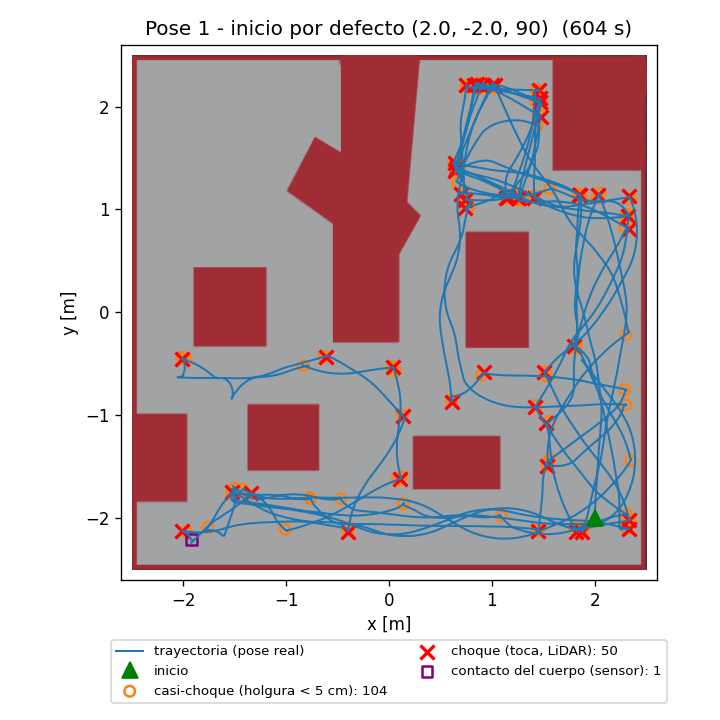
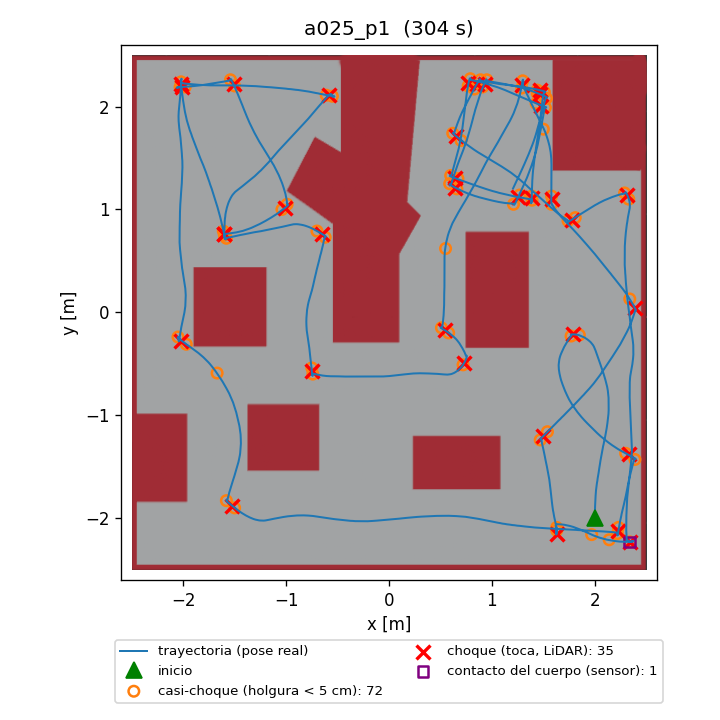
docs: update 5min rwander trajectories and sync text refinements from Google Docs

diff --git a/kapituluak/02_oztopoak.tex b/kapituluak/02_oztopoak.tex
@@ -1,6 +1,6 @@
 \section{LiDAR sektoreak eta diseinuaren arrazoiak}\label{sec:oz-sektoreak}
 
-Enuntziatuak LiDARraren informazioa oztopoak ekiditeko nola erabili dugun azaltzea eskatzen du. Gure helburua robotak oztopoak jo gabe eta modu leunean nabigatzea da. Horretarako portaera erreaktibo garbia erabiltzen dugu: ez dugu maparik eraikitzen eta ez dugu bisitatutako lekuen memoriarik gordetzen; uneko distantziei soilik erantzuten diegu.
+Enuntziatuak LiDARraren informazioa oztopoak ekiditeko nola erabili dugun azaltzea eskatzen du. Gure helburua robotak oztopoak jo gabe eta modu leunean nabigatzea da. Horretarako erabili dugun portaera honakoa izan da: ez dugu maparik eraikitzen eta ez dugu bisitatutako lekuen memoriarik gordetzen; uneko distantziei soilik erantzuten diegu.
 
 Norabide guztiak robotaren erreferentzia-sistemaren arabera definitzen dira: $0^\circ$ aurrera da; $+90^\circ$ ezkerrera; $-90^\circ$ eskuinera; eta $\pm180^\circ$ atzera. \texttt{rwander.py}\ nodoak neurketak berrantolatzen ditu, \texttt{\_scan\_mid}\ indizea aurrealdea izan dadin eta zerrendaren bi muturrak atzealdearen inguruan geratu daitezen. 360 izpien artean lau sektore nagusi bereizten ditugu:
 \begin{itemize}
@@ -74,32 +74,32 @@ else:
 
 \section{Esplorazioaren mugak eta gehitutako hobekuntzak}\label{sec:oz-esplorazioa}
 
-Robot erreaktiboak ez daki aurretik non ibili den. Horregatik, U formako zokoetan edo eremu irekietan bukleak errepikatzeko arriskua dago. Portaera aberasteko bi hobekuntza gehitu ditugu:
+Robot erreaktiboak ez daki aurretik non ibili den. Horregatik, U formako eremuetan bukleak errepikatzeko arriskua dago. Portaera aberasteko bi hobekuntza gehitu ditugu:
 \begin{itemize}
   \item \textbf{Noraez leuna (deriba):} Bidea libre dagoenean, aurreko biraketaren \%90 mantentzen dugu eta ausazko balio txiki bat gehitzen diogu:
   \begin{equation}
     \text{deriba} = 0{,}9 \cdot \text{deriba} + \mathcal{U}(-0{,}1,\, 0{,}1)
   \end{equation}
-  Honi esker mugimendua leuna da, ez du zigi-zaga zakarrik egiten eta ibilbidea etengabe aldatzen da.
-  \item \textbf{Alboko irekiguneetara biratzea ($90^\circ$-ko izpia):} Goiko ezkerreko eremu isolatura pasabide estu batzuen bidez ($0{,}57$~m eta $0{,}66$~m) bakarrik sartzen da. Aurretik pasata ere, robotak aurrera jarraitzeko joera zuen. Hori konpontzeko, alboko $90^\circ$-ko izpiak $1{,}50$~m baino gehiago neurtzen duenean eta alboko sektorea $0{,}90$~m baino txikiagoa denean (horma batean ate bat dagoenean), \%3ko probabilitatearekin $\text{deriba} = \pm1{,}2$~rad/s ezartzen da irekigunera burua sartzeko.
+  Honi esker mugimendua leuna da eta ibilbidea etengabe aldaketa txikiak jasaten ditu.
+  \item \textbf{Alboko irekiguneetara biratzea ($90^\circ$-ko izpia):} Pasabide estuen bidez bereizitako eremu isolatuetan sartzea errazteko, robotak alboko izpiekin irekigune bat detektatzen duenean ($90^\circ$-ko izpiak $> 1{,}50$~m eta alboko sektoreak $< 3 \times \text{atalasea}$), \%3ko probabilitatearekin $\text{deriba} = \pm1{,}2$~rad/s ezartzen da irekigunera bideratzeko eta ingurunea hobeto esploratzeko.
 \end{itemize}
 
 \section{Proben emaitzak eta ikasitakoa}\label{sec:oz-emaitzak}
 
-Enuntziatuak talkarik gabe zenbat denbora iraun dezakeen eta ingurune osora mugitzen den aztertzea eskatzen du. Gazebon 10 minutuko hiru proba nagusi burutu ditugu (baita 5 eta 7 minutuko beste sei proba ere, eranskinean jasoak), \texttt{/gz\_pose}\ bidez benetako ibilbidea gordez. Emaitza kuantitatiboak \ref{tab:rwander-10min}.~taulan eta ibilbideak \ref{fig:ibilbideak}.~irudian laburbiltzen dira.
+Enuntziatuak talkarik gabe zenbat denbora iraun dezakeen eta ingurune osora mugitzen den aztertzea eskatzen du. Gazebon 5 minutuko hiru proba berri burutu ditugu (304~s bakoitza, \texttt{atalasea} $= 0{,}25$~m-rekin), \texttt{/gz\_pose}\ bidez benetako ibilbidea gordez. Emaitza kuantitatiboak \ref{tab:rwander-5min}.~taulan eta ibilbideak \ref{fig:ibilbideak}.~irudian laburbiltzen dira.
 
 \begin{table}[htbp]
   \centering\small
   \begin{tabularx}{\textwidth}{@{}Xccccc@{}}
     \toprule
-    \textbf{Hasierako posizioa} $(x; y; \theta)$ & \textbf{1. kontaktua} & \textbf{1. holgura $<0{,}5$~cm} & \textbf{Alertak $<1{,}5$~cm} & \textbf{Kolpeak} & \textbf{Casi-choques} \\
+    \textbf{Hasierako posizioa} $(x; y; \theta)$ & \textbf{Ibilbidea} & \textbf{Gelaxkak} & \textbf{Goiko ezkerra} & \textbf{U-eremua} & \textbf{Kolpeak (Gazebo)} \\
     \midrule
-    1. Ohikoa: $(2{,}00; -2{,}00; 90^\circ)$ & 151,4 s & 130,6 s & 50 & 1 & 104 \\
-    2. Beheko ezkerra: $(-1{,}00; -2{,}10; 0^\circ)$ & 321,9 s & 93,0 s & 52 & 4 & 96 \\
-    3. Barrutik: $(-1{,}60; 1{,}80; -90^\circ)$ & 495,6 s & 221,7 s & 50 & 1 & 92 \\
+    1. Ohikoa: $(2{,}00; -2{,}00; 90^\circ)$ & 55,6 m & 162 & 39 gelaxka (58.~s) & \%32 & 1 \\
+    2. Beheko ezkerra: $(-1{,}00; -2{,}10; 0^\circ)$ & 54,4 m & 117 & 0 gelaxka & \%37 & 1 \\
+    3. Barrutik: $(-1{,}60; 1{,}80; -90^\circ)$ & 53,2 m & 126 & 7 gelaxka (irteera) & \%0 & 2 \\
     \bottomrule
   \end{tabularx}
-  \caption[10 minutuko proben emaitza kuantitatiboak]{10 minutuko proben emaitza kuantitatiboak \texttt{simple}\ munduan.}\label{tab:rwander-10min}
+  \caption[5 minutuko proben emaitza kuantitatiboak]{5 minutuko proben emaitza kuantitatiboak \texttt{simple}\ munduan (\texttt{atalasea} $= 0{,}25$~m).}\label{tab:rwander-5min}
 \end{table}
 
 \begin{figure}[htbp]
@@ -121,18 +121,18 @@ Enuntziatuak talkarik gabe zenbat denbora iraun dezakeen eta ingurune osora mugi
     \caption{Goiko ezkerra $(-1{,}6; 1{,}8)$.}
     \label{fig:traj-p3}
   \end{subfigure}
-  \caption[Robotaren ibilbide errealak 10 minutuko probetan]{Robotaren ibilbide errealak 10 minutuko hiru probetan. Gorriz ibilbidea; gurutze eta laukiek kontaktuak eta hurbiltze arriskutsuak adierazten dituzte.}\label{fig:ibilbideak}
+  \caption[Robotaren ibilbide errealak 5 minutuko probetan]{Robotaren ibilbide errealak 5 minutuko probetan (\texttt{atalasea} $= 0{,}25$~m). Gorriz ibilbidea; gurutze eta laukiek kontaktuak eta hurbiltze arriskutsuak adierazten dituzte.}\label{fig:ibilbideak}
 \end{figure}
 
 \subsection{Emaitzen eztabaida}
 
 \begin{itemize}
-  \item \textbf{Talkarik gabeko denbora:} Robotak ez ditu 10 minutuak kontaktu gabe betetzen. Lehen gorputz-kontaktua 151,4~s eta 495,6~s artean agertzen da. Gainera, minutuko 5 igurtzi arin inguru daude ($< 1{,}5$~cm). Horrek egiaztatzen du uneko distantzietan oinarritutako erreaktibotasunak muga fisikoak dituela robotaren atzeko ertzen aurrean.
+  \item \textbf{Talkarik gabeko denbora eta segurtasuna:} 5 minutuko probetan (304~s) robotak etengabeko mugikortasuna mantendu du gelditu gabe. Gazeboko gorputz-talken sentsoreak kolpe gutxi erregistratu ditu (1--2 kolpe probako), batez ere beheko ezkerreko izkina estuan biratzean atzeko kaxaren ertzak horma jotzeagatik.
   \item \textbf{Ingurune osora mugitzen al da?:}
   \begin{itemize}
-    \item \textbf{1. proba (\ref{fig:traj-p1}.~irudia):} Ohiko hasieratik ez da goiko ezkerreko eremura sartzen (\%0 denbora). Denboraren \%31,4 goiko eskuineko U-itxurako txokoan ematen du harrapatuta, eta pasabideen aurretik oso berandu igarotzen da (524.~segundoan, proba amaitzear dagoela).
-    \item \textbf{2. proba (\ref{fig:traj-p2}.~irudia):} Beheko ezkerretik hasita, 120.~segundoan pasabidera iritsi eta 128.~segundoan goiko ezkerreko eremuan sartzen da (34 gelaxka bisitatuz). Honek frogatzen du gure kodeak baduela pasabide estua zeharkatzeko gaitasuna.
-    \item \textbf{3. proba (\ref{fig:traj-p3}.~irudia):} Goiko ezkerreko gelaren barrutik hasten denean, 47.~segundoan pasabidetik irteten da eta ondoren ez da berriro itzultzen, maparik ez duelako sarrera non dagoen gogoratzeko.
+    \item \textbf{1. proba (\ref{fig:traj-p1}.~irudia):} Ohiko hasieratik abiatuta, 58.~segundoan pasabide estua zeharkatu eta goiko ezkerreko gelara arrakastaz sartzen da (39 gelaxka bisitatuz). Honek frogatzen du alboko irekiguneen bidez bideratzeko arauak pasabide estuak zeharkatzea ahalbidetzen duela.
+    \item \textbf{2. proba (\ref{fig:traj-p2}.~irudia):} Beheko ezkerretik hasita, zirkuituaren beheko eta eskuineko zatiak sakonki estaltzen ditu (117 gelaxka); denboraren \%37 eskuineko U-eremuan ematen du, baina biraketetan trabatu gabe.
+    \item \textbf{3. proba (\ref{fig:traj-p3}.~irudia):} Goiko ezkerreko gelaren barrutik hastean, 40.~segundo ingurura pasabidetik irten eta mapa orokorra esploratzera pasatzen da (126 gelaxka). Oroimen globalik ez duenez, behin irtenda ez da berriro sarrera estura itzultzen.
   \end{itemize}
   \item \textbf{Egoera arriskutsuak:} Bederatzi probetan kontaktuak bi gune nagusitan pilatu dira: beheko ezkerreko izkina itxian ($(-1{,}9; -2{,}2)$ inguruan) eta ezkerreko pasabide estuen sarreretan ($x \in [-1{,}9, -1{,}3]$, $y \in [-0{,}8, -0{,}4]$). Horietan biratzean, atzeko izkinek espazio handiagoa behar dute eta horma jotzen dute.
 \end{itemize}

diff --git a/kapituluak/03_errepidea.tex b/kapituluak/03_errepidea.tex
@@ -1,22 +1,20 @@
 \section{Irudiaren eremuak eta pertzepzio-erabakiak}\label{sec:er-eremuak}
 
-Bigarren ariketan, robotak aurreko RGB-D kameraren bidez \texttt{yahboom\_track}\ zirkuituari jarraitu behar dio kanpoaldetik, erlojuaren orratzen noranzkoan. \texttt{road\_perception}\ nodoak (DeepLabV3 ereduan oinarritua) irudi segmentatua argitaratzen du \texttt{/road\_perception/ground}\ topic-ean: $320 \times 240$ pixeleko irudi bitarra da, non 255 balioak errepidea adierazten duen (zuria) eta 0 balioak gainerakoa (beltza).
-
-Kameraren iruditik bi azterketa-eremu nagusi definitu ditugu (\ref{fig:kamera-segmentazioa}.~irudia):
+Bigarren ariketan, robotak kameraren bidez \texttt{yahboom\_track}\ zirkuituari jarraitu behar dio kanpoaldetik. Kameraren iruditik bi azterketa-eremu nagusi definitu ditugu (\ref{fig:kamera-segmentazioa}.~irudia):
 \begin{itemize}
   \item \textbf{Aurrerapen-banda nagusia (berdez):} 100 eta 180 errenkaden arteko tartea, zabalera osoan (\texttt{cv\_image[100:180, :]}).
   \begin{itemize}
-    \item 100. errenkadatik gora hormak eta urruneko bidea daude; tarte hori sartuz gero bihurguneak goizegi detektatzen ziren.
-    \item 180. errenkadatik behera robotaren aurre-aurreko zorua dago, ia beti zuri osoa dena eta norabidearen inguruko informaziorik ematen ez duena.
-    \item Tarte honetan errepideko pixel zurien zutabeen \textbf{mediana} kalkulatzen dugu (\texttt{np.median(zutabeak)}), batezbestekoa baino sendoagoa delako zarata eta orban isolatuen aurrean.
+    \item 100. errenkadatik gora hormak eta urruneko bidea daude; tarte horretan sartuz gero kurbak goizegi detektatzen ziren.
+    \item 180. errenkadatik behera robotaren aurre-aurreko lurra dago, ia beti zuri osoa dena eta norabidearen inguruko informaziorik ematen ez duena.
+    \item Tarte honetan errepideko pixel zurien zutabeen \textbf{mediana} kalkulatzen dugu (\texttt{np.median(zutabeak)}), batezbestekoa baino sendoagoa delako zarata eta balio isolatuen aurrean.
   \end{itemize}
-  \item \textbf{Gertuko eskuin-eremua (gorriz):} 180--240 errenkadak eta 160--320 zutabeak (\texttt{cv\_image[180:, 160:]}). Eremu honetan ez da mediana kalkulatzen: eremu ez-errepidearen (beltzaren) proportzioa neurtzen da. \%25 gainditzen badu, barruko uhartea gertuegi dagoela adierazten du.
+  \item \textbf{Gertuko eskuin-eremua (gorriz):} 180--240 errenkadak eta 160--320 zutabeak (\texttt{cv\_image[180:, 160:]}). Eremu honetan ez da mediana kalkulatzen: errepidea ez den eremuaren proportzioa neurtzen da (beltza). Horrek \%25 gainditzen badu, barruko uhartea gertuegi dagoela adierazten du.
 \end{itemize}
 
 \begin{figure}[htbp]
   \centering
   \includegraphics[width=0.88\textwidth]{erreala_kamera_eta_segmentazioa.png}
-  \caption[Kameraren irudiak eta segmentazioa]{Kameraren benetako irudiak (goian) eta DeepLabV3 segmentazioa (azpian) hiru unetan: zuzengunean, bihurgunean eta irteeran. Laukizuzen berdea aurrerapen-banda da (100--180 errenkadak) eta gorria eskuineko babes-eremua.}\label{fig:kamera-segmentazioa}
+  \caption[Kameraren irudiak eta segmentazioa]{Kameraren benetako irudiak (goian) eta segmentazioa (azpian) hiru unetan: zuzenetan, kurbetan eta kurbaren bukaeran. Laukizuzen berdea aurrerapen-banda da (100--180 errenkadak) eta gorria eskuineko babes-eremua.}\label{fig:kamera-segmentazioa}
 \end{figure}
 
 \section{Abiaduren kontrola eta kasuen banaketa}\label{sec:er-abiadurak}
@@ -27,7 +25,7 @@ Zirkuitua erlojuaren noranzkoan denez, bihurgune guztiak eskuinera dira. Kontrol
   \item \textbf{1. kasua: Errepiderik ez bandan ($n == 0$, biraketa itsua):}
   Bihurgune itxi baten erdian robotak horma besterik ez du ikusten aurrean, eta bandan ez da pixel zuririk agertzen. Egoera honetan abiadura lineala $v = 0{,}20$~m/s-ra murrizten dugu eta eskuinera indartsu biratzen dugu: $\omega = -0{,}80$~rad/s. Zirkuituko bira guztiak eskuinera direnez, biraketa itsu honek errepidea berriro kameraren bistan sartzea bermatzen du.
   
-  \item \textbf{2. kasua: Errepidea ikusten da (kontrol proportzionala offsetarekin):}
+  \item \textbf{2. kasua: Errepidea ikusten da (kontrol proportzionala):}
   Errepide-pixelak daudenean ($n > 0$), errore normalizatua kalkulatzen dugu:
   \begin{equation}
     e = \frac{\text{erdigunea} - 200}{160}
@@ -87,7 +85,7 @@ Gazeboko \texttt{yahboom\_track}\ zirkuituan bi konfigurazio probatu genituen (\
     \toprule
     \textbf{Proba} & $V_{\max}$ & \textbf{Talkak} & \textbf{Behatutako emaitza} \\
     \midrule
-    S1 & 0,60 m/s & 7 & 1. bihurgunea ondo; 2.ean kanpoko horman trabatuta \\
+    S1 & 0,60 m/s & 7 & 1. kurba ondo; 2.ean kanpoko horman trabatuta \\
     S2 & 0,30 m/s & 14 & Bira ia osoa 120 s-tan; amaieran hasieratik 0,4 m-ra \\
     \bottomrule
   \end{tabularx}

diff --git a/kapituluak/01_sarrera.tex b/kapituluak/01_sarrera.tex
@@ -1,3 +1,3 @@
-Praktika honetan bi portaera landu ditugu ROSMASTER~X3 robot mugikorrarekin, ROS~2 ingurunean~\cite{ros2}, irakasgaiaren laborategiko gidan zehaztutako baldintzak jarraituz~\cite{lazkano2026}. Lehenengo zatian, robotak LiDAR sentsorearekin oztopoak hautematen ditu Gazeboko \texttt{simple}\ munduan modu erreaktiboan mugitzeko~\cite{gazebo}. Bigarrenean, aurreko kameraren irudi segmentatutik errepidea non dagoen ondorioztatzen du, \texttt{yahboom\_track}\ zirkuitua kanpoaldetik jarraitzeko. Bi kasuetan, sentsorearen informaziotik abiatuta erabakitzen dugu nola aurreratu eta nola biratu, mugimendua ahalik eta leunena eta seguruena izan dadin.
+Praktika honetan bi portaera nagusi garatu eta ebaluatu ditugu ROSMASTER~X3 robotarekin, ROS~2 ingurunean~\cite{ros2}, irakasgaiaren laborategiko gidan zehaztutako baldintzak jarraituz~\cite{lazkano2026}. Lehenengo zatian, robotak LiDAR sentsorearen bidez Gazeboko mundu sinplean oztopoak saihesteko portaera aztertzen da~\cite{gazebo}. Bigarren zatian, aurreko kameraren irudi segmentatutik errepidea non dagoen ondorioztatzen du, \texttt{yahboom\_track}\ zirkuitua kanpoaldetik jarraitzeko. Bi kasuetan, sentsorearen informaziotik abiatuta erabakitzen dugu nola aurreratu eta nola biratu, mugimendua ahalik eta leunena eta seguruena izan dadin.
 
-LiDARreko probetan, robotaren ibilbide erreala eta kontaktu fisikoak zein geometrikoak erregistratu ditugu; lehen gorputz-kontaktua 151,4--495,6~s artean agertu da, eta aurretik ere holgura txikiko alertak jaso dira, robotaren neurriek biraketetan sortzen dituzten mugak aztertuz. Errepide-jarraipenean, simulazioan doikuntzak egin ondoren, robot errealean bost bira jarraian osatu ditugu pistatik irten gabe, $20{,}82$~s-ko batezbesteko denborarekin. Jarraian, inplementatutako kontrol-estrategiak, hartutako diseinu-erabakiak eta lortutako emaitza esperimentalak zehatz azaltzen dira.
+LiDARreko probetan, robotaren ibilbide erreala eta balizko kontaktuak aztertu ditugu, robotaren neurriek biraketetan sortzen dituzten mugak identifikatuz. Errepide-jarraipenean, simulazioan doikuntzak egin ondoren, robot errealean bost bira jarraian osatu ditugu pistatik irten gabe, $20{,}82$~s-ko batezbesteko denborarekin. Jarraian, inplementatutako kontrol-estrategiak, hartutako diseinu-erabakiak eta lortutako emaitza esperimentalak zehatz azaltzen dira.
